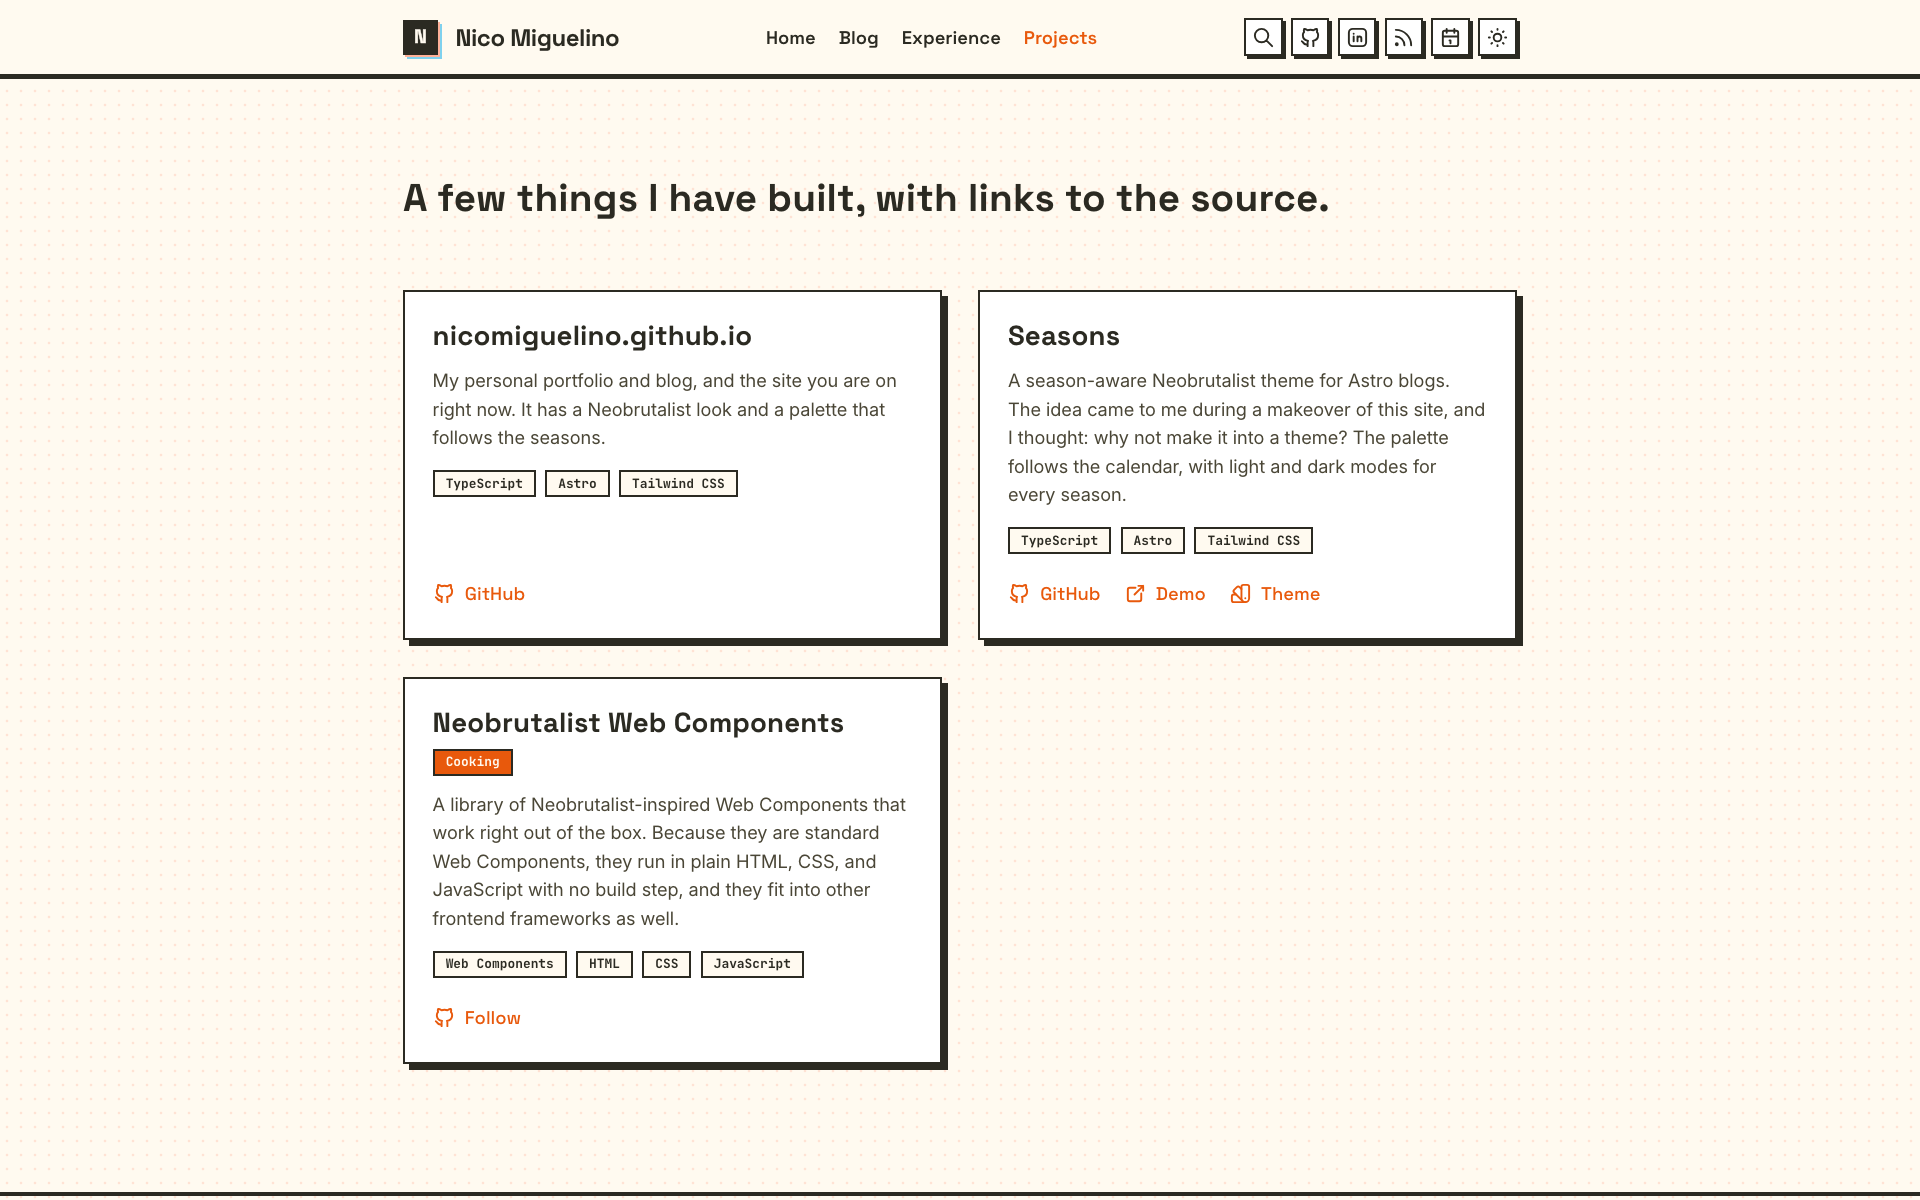
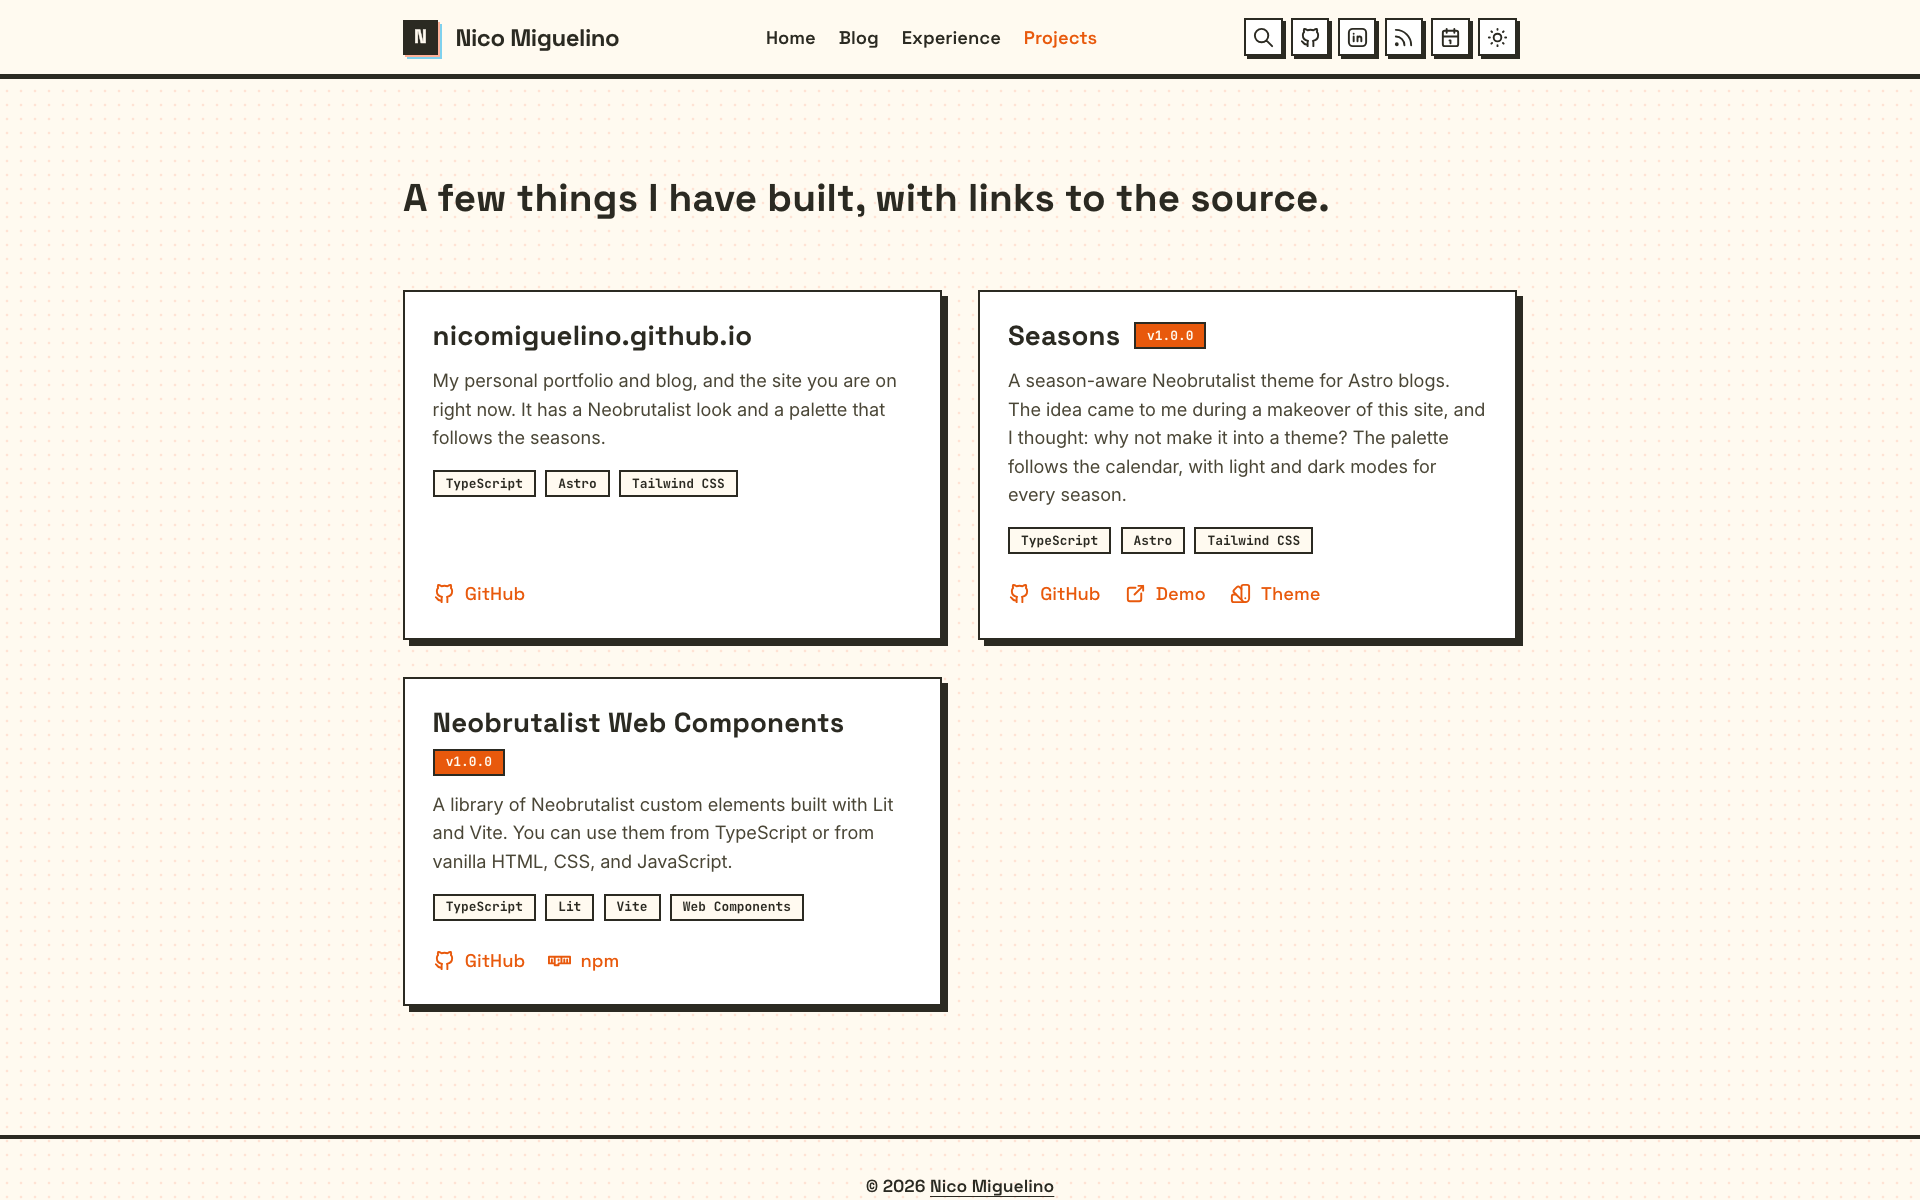
feat(projects): show latest release version and npm link
- Replace Cooking badge with the latest release tag, fetched from GitHub in the browser
- Add version badges to Seasons and Neobrutalist Web Components
- Add npm link kind with the Tabler brand-npm icon
- Mock the releases endpoint in the projects screenshot test
- Regenerate projects screenshots

diff --git a/src/tests/screenshots/projects.spec.ts b/src/tests/screenshots/projects.spec.ts
@@ -1,3 +1,23 @@
+import { expect, type Page } from '@playwright/test';
 import { defineScreenshotTests } from './support';
 
-defineScreenshotTests('projects', '/projects/');
+const RELEASES_URL_PATTERN: RegExp = /^https:\/\/api\.github\.com\/repos\/([^/]+\/[^/]+)\/releases\/latest$/;
+const FIXTURE_TAG_NAME: string = 'v1.0.0';
+const RELEASE_BADGE_SELECTOR: string = '[data-release-repository]';
+const VISIBLE_RELEASE_BADGE_SELECTOR: string = `${RELEASE_BADGE_SELECTOR}:not([hidden])`;
+
+async function mockLatestReleases(page: Page): Promise<void> {
+  await page.route(RELEASES_URL_PATTERN, async (route): Promise<void> => {
+    await route.fulfill({ json: { tag_name: FIXTURE_TAG_NAME } });
+  });
+}
+
+async function waitForReleaseBadges(page: Page): Promise<void> {
+  const totalBadgeCount: number = await page.locator(RELEASE_BADGE_SELECTOR).count();
+  await expect(page.locator(VISIBLE_RELEASE_BADGE_SELECTOR)).toHaveCount(totalBadgeCount);
+}
+
+defineScreenshotTests('projects', '/projects/', undefined, {
+  beforeNavigation: mockLatestReleases,
+  afterNavigation: waitForReleaseBadges,
+});

diff --git a/src/tests/screenshots/support.ts b/src/tests/screenshots/support.ts
@@ -9,6 +9,8 @@ const SCREENSHOTS_DIRECTORY: string = 'screenshots';
 
 interface ScreenshotOptions {
   keepAnimations?: boolean;
+  beforeNavigation?: (page: Page) => Promise<void>;
+  afterNavigation?: (page: Page) => Promise<void>;
 }
 
 async function freezeParticleAnimations(page: Page): Promise<void> {
@@ -70,7 +72,9 @@ export function defineScreenshotTests(
         const outputPath: string = join(SCREENSHOTS_DIRECTORY, `${pageName}-${season.name}-${colorScheme}.png`);
         await page.clock.setFixedTime(new Date(season.date));
         await page.emulateMedia({ colorScheme });
+        await options.beforeNavigation?.(page);
         await page.goto(path);
+        await options.afterNavigation?.(page);
         await waitForImages(page);
         await freezeSvgAnimations(page);
         await page.waitForTimeout(FILTER_SETTLE_MS);

diff --git a/src/lib/projects.ts b/src/lib/projects.ts
@@ -1,6 +1,6 @@
 import { getIcon, type IconSource } from '@/lib/icons';
 
-export type ProjectLinkKind = 'github' | 'follow' | 'demo' | 'theme';
+export type ProjectLinkKind = 'github' | 'follow' | 'demo' | 'theme' | 'npm';
 
 export interface ProjectLink {
   kind: ProjectLinkKind;
@@ -33,5 +33,10 @@ export const PROJECT_LINK_DEFINITIONS: Record<ProjectLinkKind, ProjectLinkDefini
     label: 'Theme',
     icon: getIcon('color-swatch'),
     getAriaLabel: (projectName: string): string => `View ${projectName} in the Astro themes library`,
+  },
+  npm: {
+    label: 'npm',
+    icon: getIcon('brand-npm'),
+    getAriaLabel: (projectName: string): string => `View ${projectName} on npm`,
   },
 };
